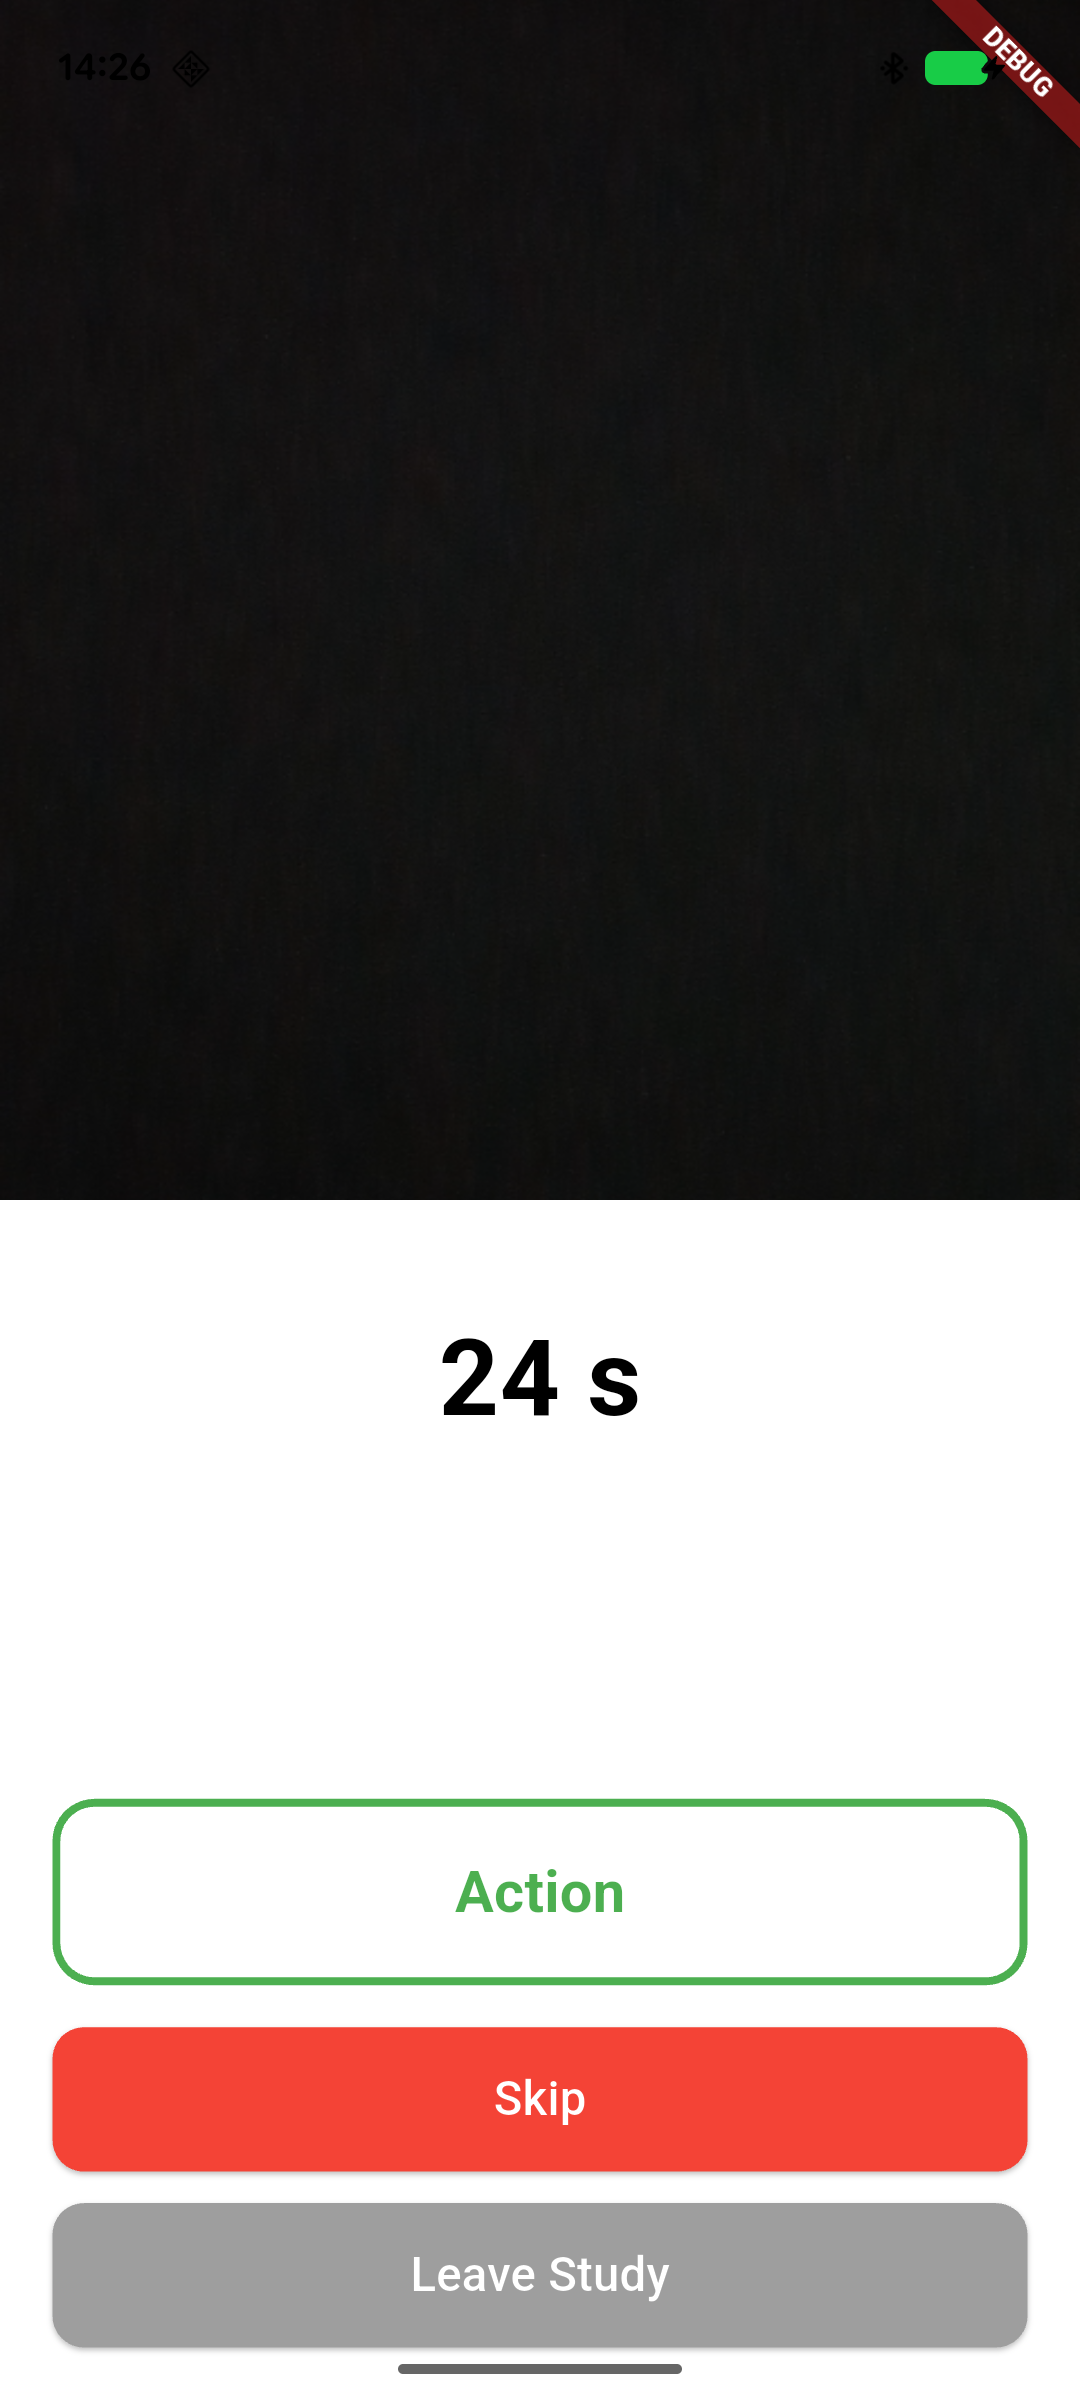
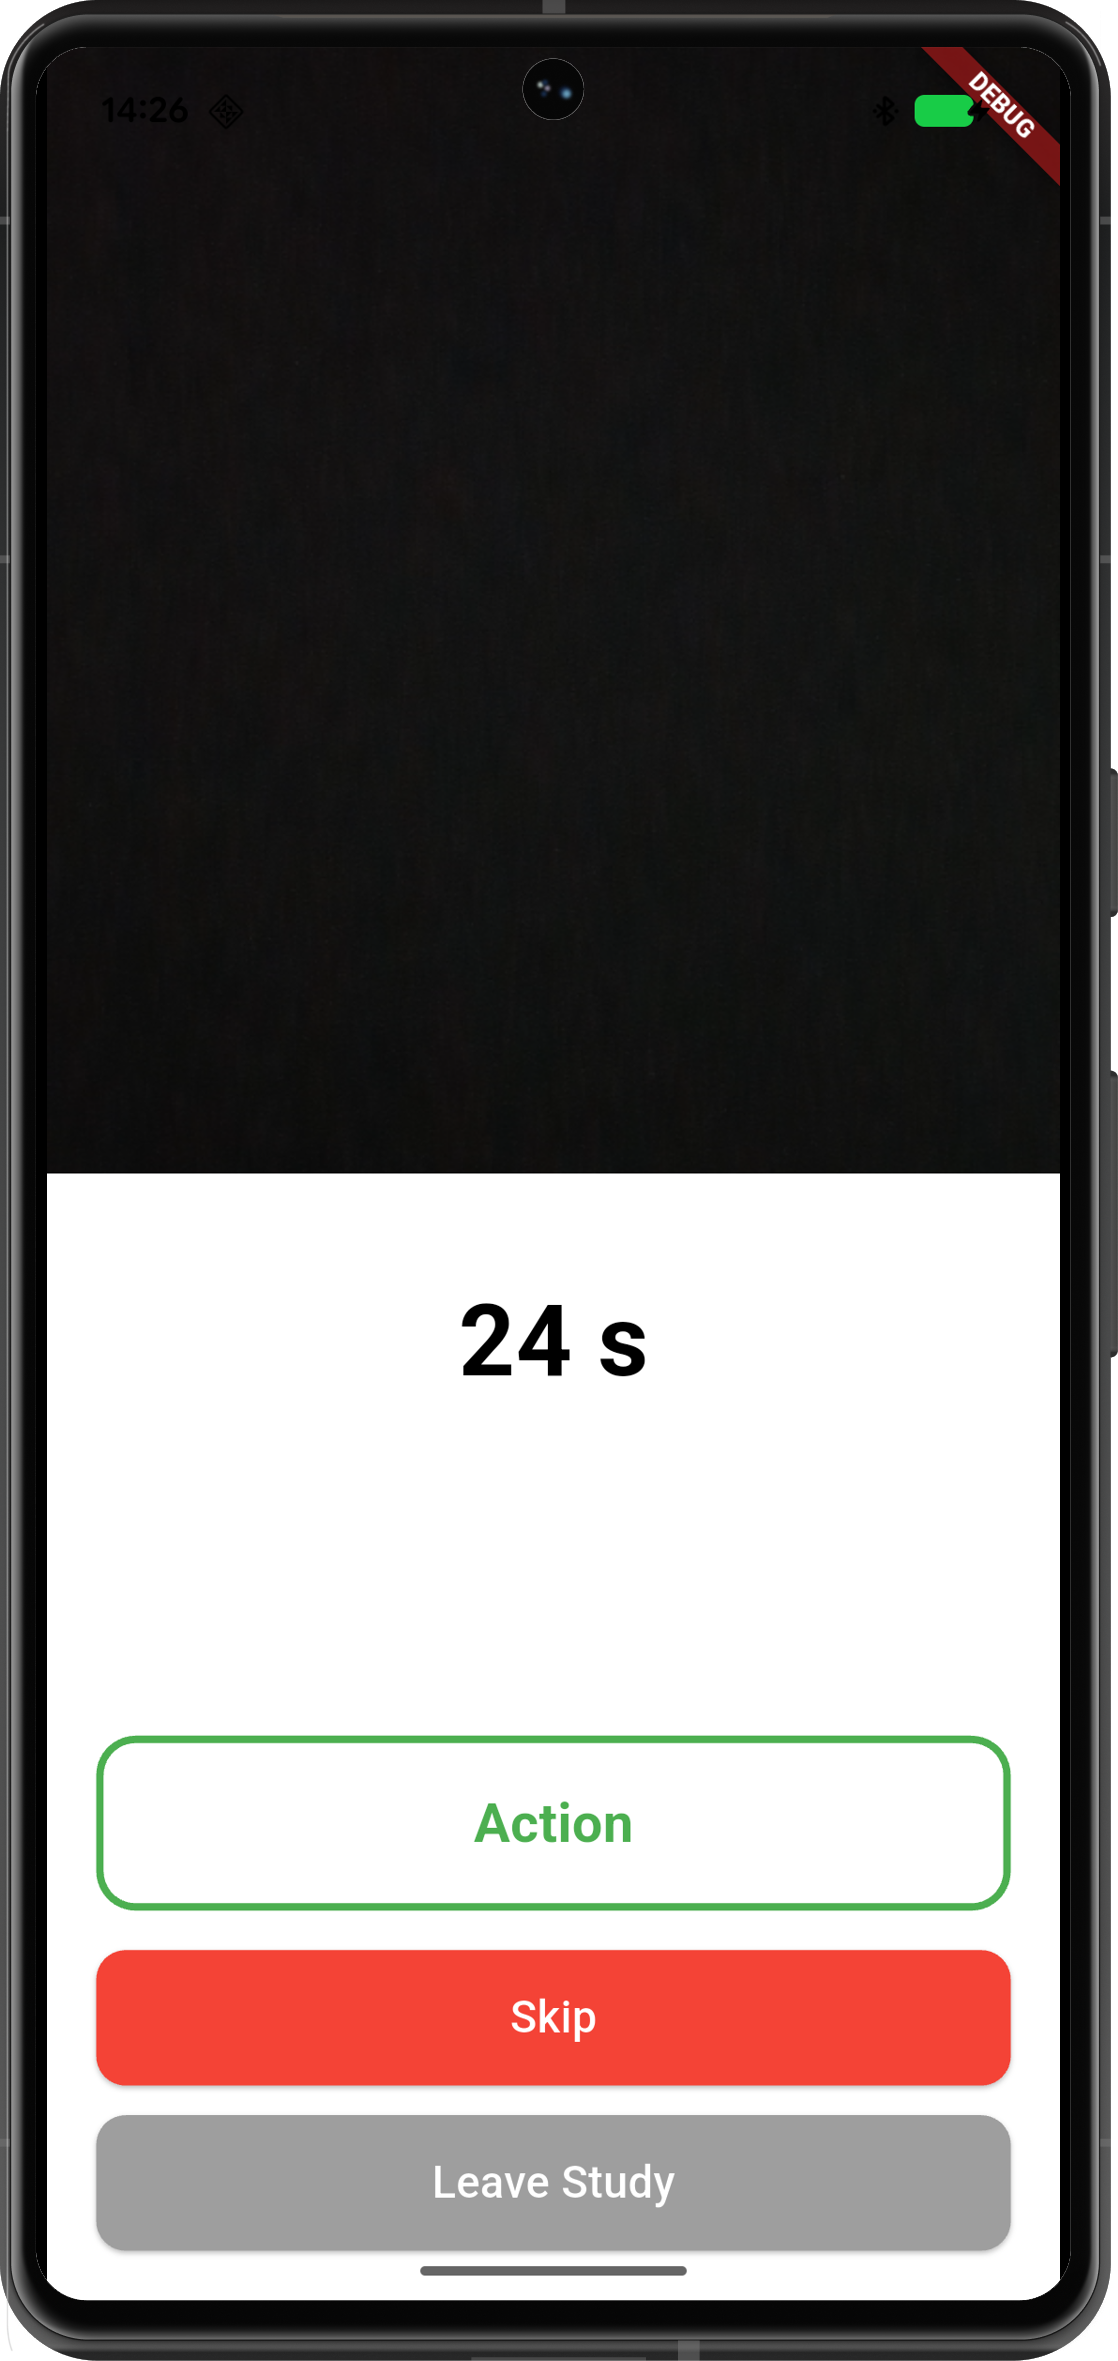
changed introduction test, changed screenshots

Changed region(s): [[0.0, 0.0, 1.0, 1.0]]

diff --git a/open_wearable/lib/apps/allergy_symptom_tracker/view/explanation_screen.dart b/open_wearable/lib/apps/allergy_symptom_tracker/view/explanation_screen.dart
@@ -19,27 +19,27 @@ class _ExplanationScreenState extends State<ExplanationScreen> {
 
   final List<Map<String, String>> _pages = [
     {
-      'text': 'In den folgenden Schritten werden deine Reaktionen auf Allergiesymptome gemessen. '
-          'Die App führt dich dabei Schritt für Schritt durch den Prozess. '
-          'Vor jeder Messung erhältst du eine kurze Erklärung, was du tun sollst. '
-          'Nachdem du die Erklärung gelesen und verstanden hast, kannst du die Aufzeichnung starten. '
-          'Grundsätzlich gilt: Verhalte dich während der Aufzeichnung ganz normal. '
-          'In der Studie werden zwei Arten von Aufzeichnungen verwendet. '
-          'Diese unterscheiden sich darin, wie markiert wird, wann du deine Reaktion ausführst. '
-          'Die erste Variante siehst du hier: '
-          'Du siehst dich selbst auf dem Bildschirm, während ein Timer die verbleibende Aufzeichnungszeit anzeigt. '
-          'In dieser Variante gibt es einen „Action“-Button. Drücke ihn immer genau zu Beginn deiner Reaktion. '
-          'Der Button dient später als Markierung in den Messdaten für den Start deiner Reaktion.',
+      'text': 'This study uses the OpenEarables to measure possible reactions to allergy symptoms. '
+          'It aims to evaluate how well the built-in sensors can detect these reactions. '
+          'The app will guide you step by step through the process. '
+          'First, you’ll answer a few questions about your symptoms. Then, the actual recording begins. '
+          'Before each session, you’ll get clear instructions — read them carefully, then start recording. '
+          'Try to behave as naturally as possible during each session. '
+          'There are two types of recordings, which differ in how your actions are marked. Both are explained on the next pages.',
+    },
+    {
+      'text': 'This is the first recording type. '
+          'You’ll see yourself on screen while a timer shows the remaining recording time. '
+          'Press the “Action” button exactly when your reaction starts. '
+          'This button marks the beginning of your reaction in the data.',
       'image': 'lib/apps/allergy_symptom_tracker/assets/screenshot_1.png',
     },
     {
-      'text': 'Hier siehst du die zweite Art der Aufzeichnung. '
-          'Dabei erscheint abwechselnd ein grüner oder ein roter Rahmen um das Bild. '
-          'Beide Phasen sind mit einem Timer versehen, der anzeigt, wie lange die aktuelle Farbe noch besteht. '
-          'Sobald der Rahmen grün ist, führe die Reaktion kontinuierlich aus, bis der Rahmen wieder rot wird. '
-          'Während der roten Phasen verhalte dich bitte ganz normal. '
-          'Eine Aufzeichnung mit dieser Art startet immer mit einer roten Phase.'
-          'Bei dieser Variante musst du keinen Button betätigen.',
+      'text': 'This is the second recording type. '
+          'A green or red frame alternates around the screen, each with a countdown timer. '
+          'When the frame is green, perform the reaction continuously until it turns red again. '
+          'During red phases, behave normally. '
+          'Each session starts with a red phase, and no button press is needed in this mode.',
       'image': 'lib/apps/allergy_symptom_tracker/assets/screenshot_2.png',
     },
   ];
@@ -76,11 +76,9 @@ class _ExplanationScreenState extends State<ExplanationScreen> {
           child: Column(
             crossAxisAlignment: CrossAxisAlignment.center,
             children: [
-              // 🔹 Obere Leiste mit "X"-Button und Überschrift
               Row(
                 mainAxisAlignment: MainAxisAlignment.spaceBetween,
                 children: [
-                  // Zurück-Button oder "X"
                   IconButton(
                     icon: const Icon(Icons.close, size: 28),
                     onPressed: _exitScreen,
@@ -89,7 +87,7 @@ class _ExplanationScreenState extends State<ExplanationScreen> {
                   Expanded(
                     child: Center(
                       child: Text(
-                        'Erklärung',
+                        'Getting started',
                         style: Theme.of(context)
                             .textTheme
                             .headlineMedium
@@ -98,11 +96,11 @@ class _ExplanationScreenState extends State<ExplanationScreen> {
                     ),
                   ),
                   const SizedBox(
-                      width: 48), // Platzhalter für zentrierte Überschrift
+                    width: 48,
+                  ),
                 ],
               ),
               const SizedBox(height: 16),
-
               Expanded(
                 child: PageView.builder(
                   controller: _pageController,
@@ -114,34 +112,35 @@ class _ExplanationScreenState extends State<ExplanationScreen> {
                   },
                   itemBuilder: (context, index) {
                     final page = _pages[index];
+                    final imagePath = page['image'];
                     return Column(
-                      mainAxisAlignment: MainAxisAlignment.center,
+                      mainAxisAlignment: MainAxisAlignment.start,
                       children: [
                         Padding(
                           padding: const EdgeInsets.symmetric(horizontal: 8.0),
                           child: Text(
                             page['text']!,
-                            textAlign: TextAlign.center,
+                            textAlign: TextAlign.left,
                             style: const TextStyle(
-                              fontSize: 13,
+                              fontSize: 16,
                               height: 1.6,
                             ),
                           ),
                         ),
                         const SizedBox(height: 32),
-                        Expanded(
-                          child: Image.asset(
-                            page['image']!,
-                            fit: BoxFit.contain,
-                            width: double.infinity,
+                        if (imagePath != null && imagePath.isNotEmpty)
+                          Expanded(
+                            child: Image.asset(
+                              page['image']!,
+                              fit: BoxFit.contain,
+                              width: double.infinity,
+                            ),
                           ),
-                        ),
                       ],
                     );
                   },
                 ),
               ),
-
               const SizedBox(height: 24),
               Row(
                 mainAxisAlignment: MainAxisAlignment.center,
